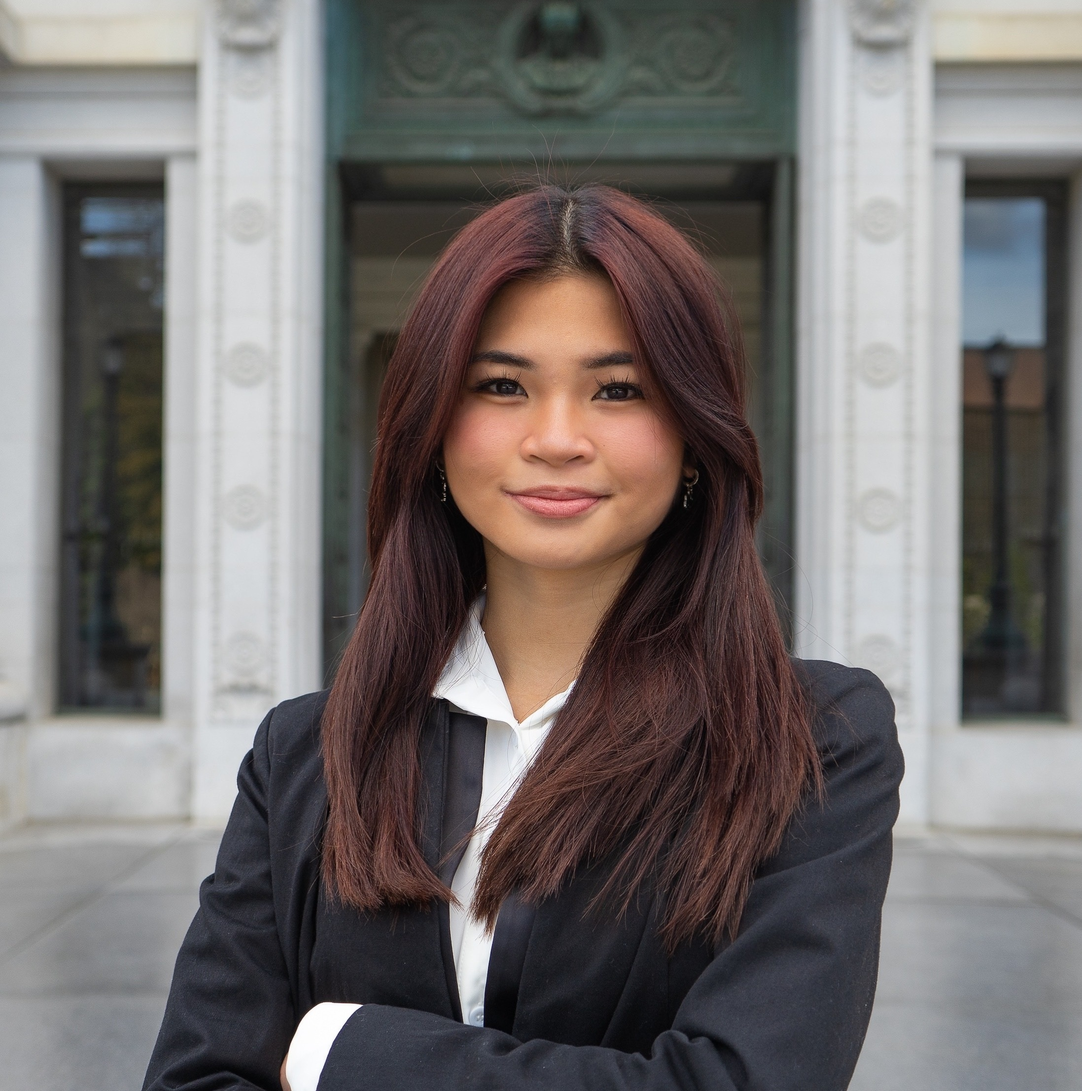
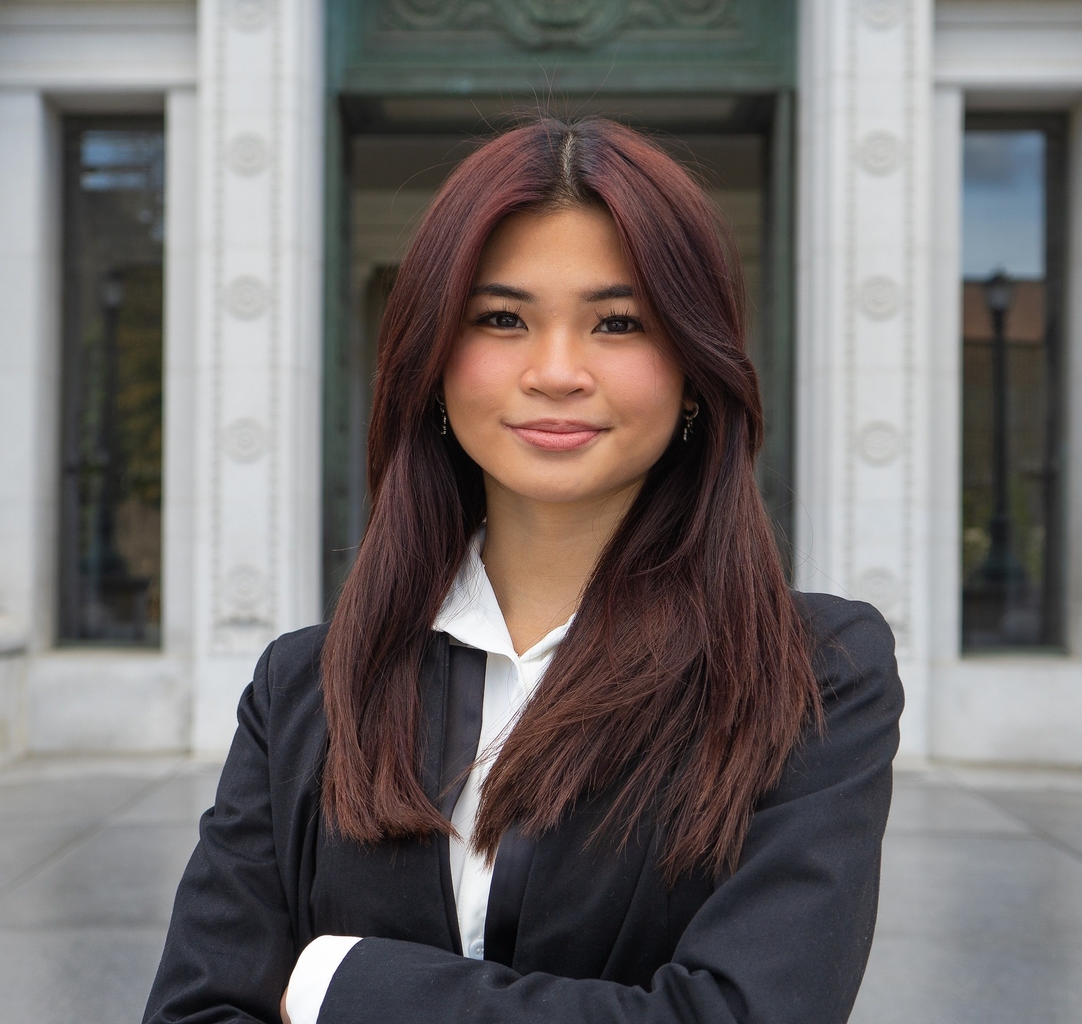
replaced website lead

diff --git a/src/data/members.ts b/src/data/members.ts
@@ -2,6 +2,7 @@ import vedha_santhosh from '../assets/members/vedha_santhosh.jpeg'
 import srikar_hanumanula from '../assets/members/srikar_hanumanula.jpeg'
 import kev_wang from '../assets/members/kev_wang.jpeg'
 import sukhamrit_singh from '../assets/members/sukhamrit_singh.jpeg'
+import joanne_tran from '../assets/members/joanne_tran.jpeg'
 
 export interface IMember {
     name: string
@@ -71,9 +72,10 @@ export const Leadership: IMember[] = [
         photo: srikar_hanumanula,
     },
     {
-        name: 'AZ Zhang',
+        name: 'Joanne Tran',
         team: 'Website',
         title: 'Lead',
+        photo: joanne_tran,
     },
     {
         name: 'Marketing Lead',
